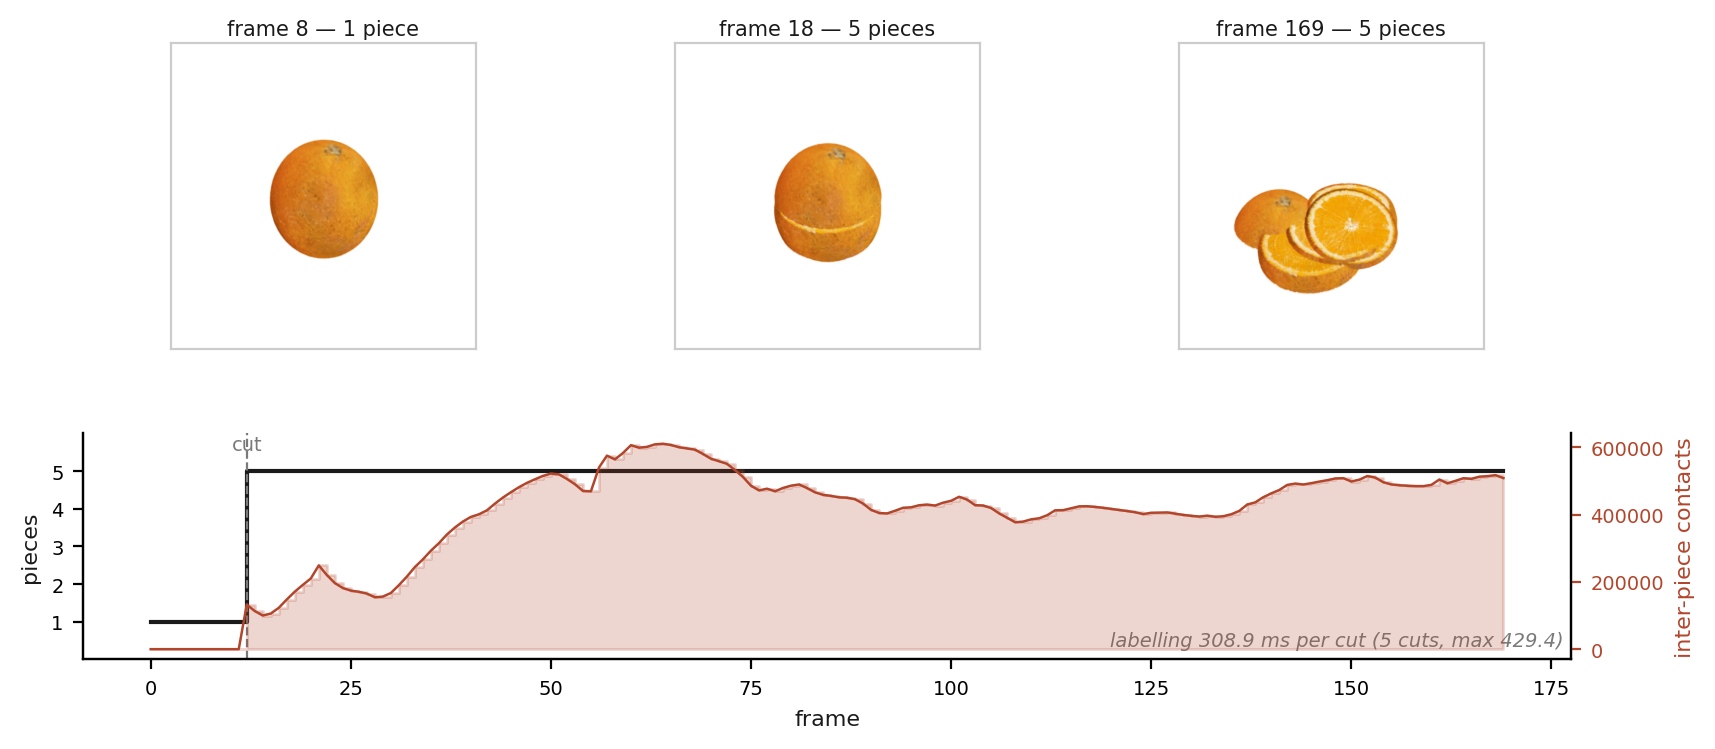
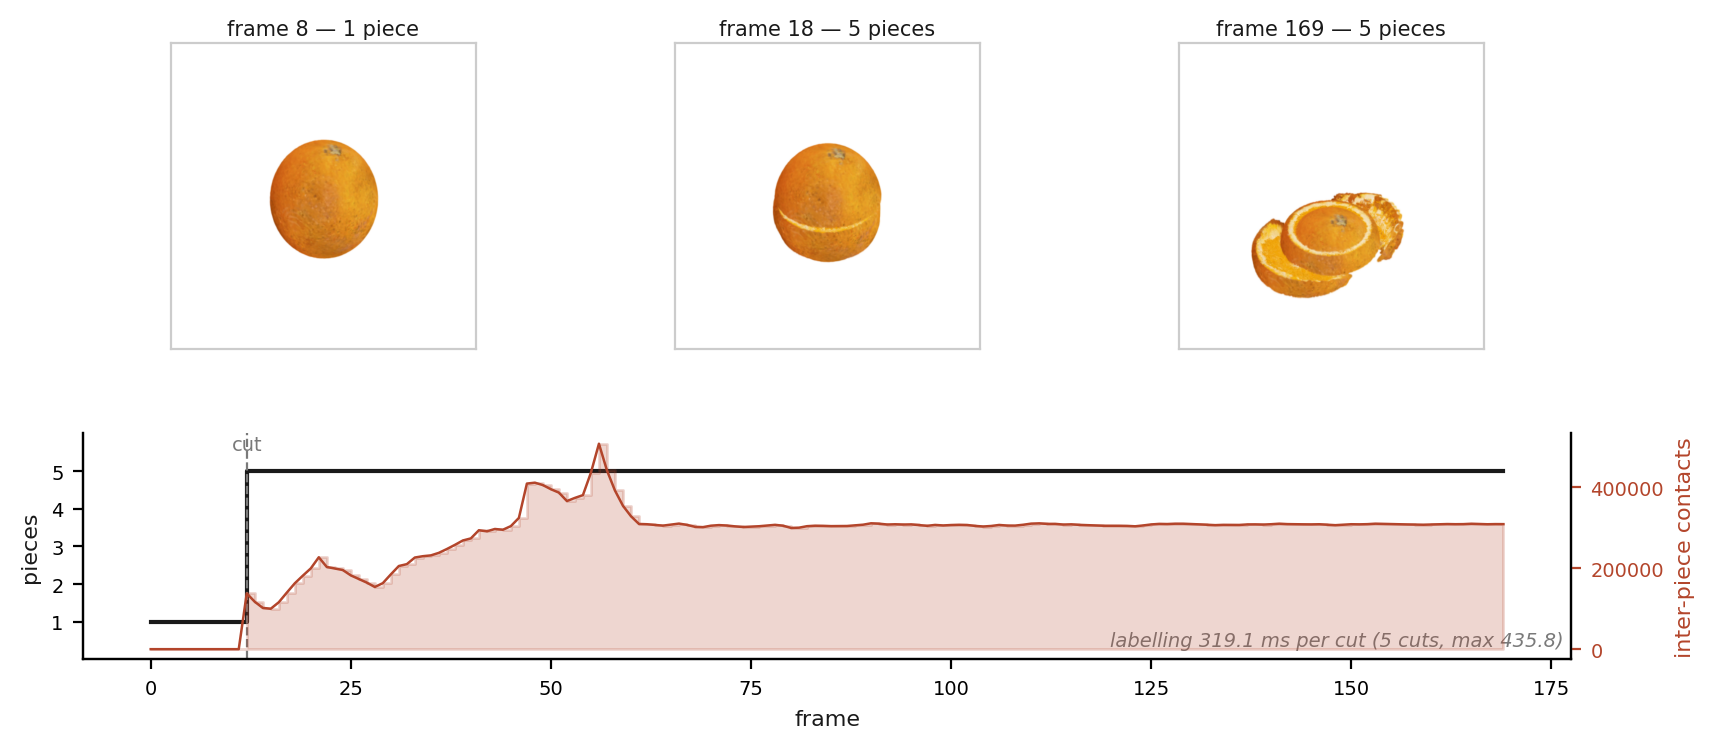
Correct what the contact number means, and resolve part of it
The caption read 610,950 contacts as slices pressing on each other. They are overlapping
particles: the contact model applied one impulse to each body's mean velocity and nothing
opposed penetration at all, so a larger number was a worse result presented as a better one.

Adds a positional correction along the local normal, which removes about a third of it (peak
610,950 to 508,041) and does not remove it: the correction is per body where the penetration is
distributed over a face. The caption now says which half of contact the lattice makes cheap --
the detection -- and which it does not.

diff --git a/index.html b/index.html
@@ -84,11 +84,15 @@
 </figure>
 
 <figure><img src="assets/slices_plot.png" alt="Pieces and inter-piece contacts over time">
-  <figcaption>The same run, measured. Contacts between pieces are zero while the object is one
-  solid and rise the moment the labelling returns five bodies, staying non-zero on 158 of 170
-  frames and peaking at 610,950 — the slices land on each other and keep pressing. This is what
-  a piece count buys: a fragment the solver knows about is a fragment that can be collided with.
-  Labelling costs 309&nbsp;ms per cut, once, on 898,563 cells.</figcaption></figure>
+  <figcaption>The same run, measured. The lattice makes the overlap query a grid lookup, so
+  inter-body penetration is detected exactly and cheaply: zero while the object is one solid,
+  non-zero on 158 of 170 frames once the labelling returns five bodies. Resolving it is the
+  coarser half — MPM handles contact through a shared background grid, and one grid per piece is
+  the price of the pieces being separate bodies, so contact here is a per-body positional
+  correction along the local normal rather than a per-particle constraint. It removes about a
+  third of the penetration (peak 610,950 to 508,041 particles) and the slices still
+  interpenetrate where they rest on each other. Labelling costs 309&nbsp;ms per cut, once, on
+  898,563 cells.</figcaption></figure>
 
 <figure>
   <div class="grid2" style="gap:14px">
